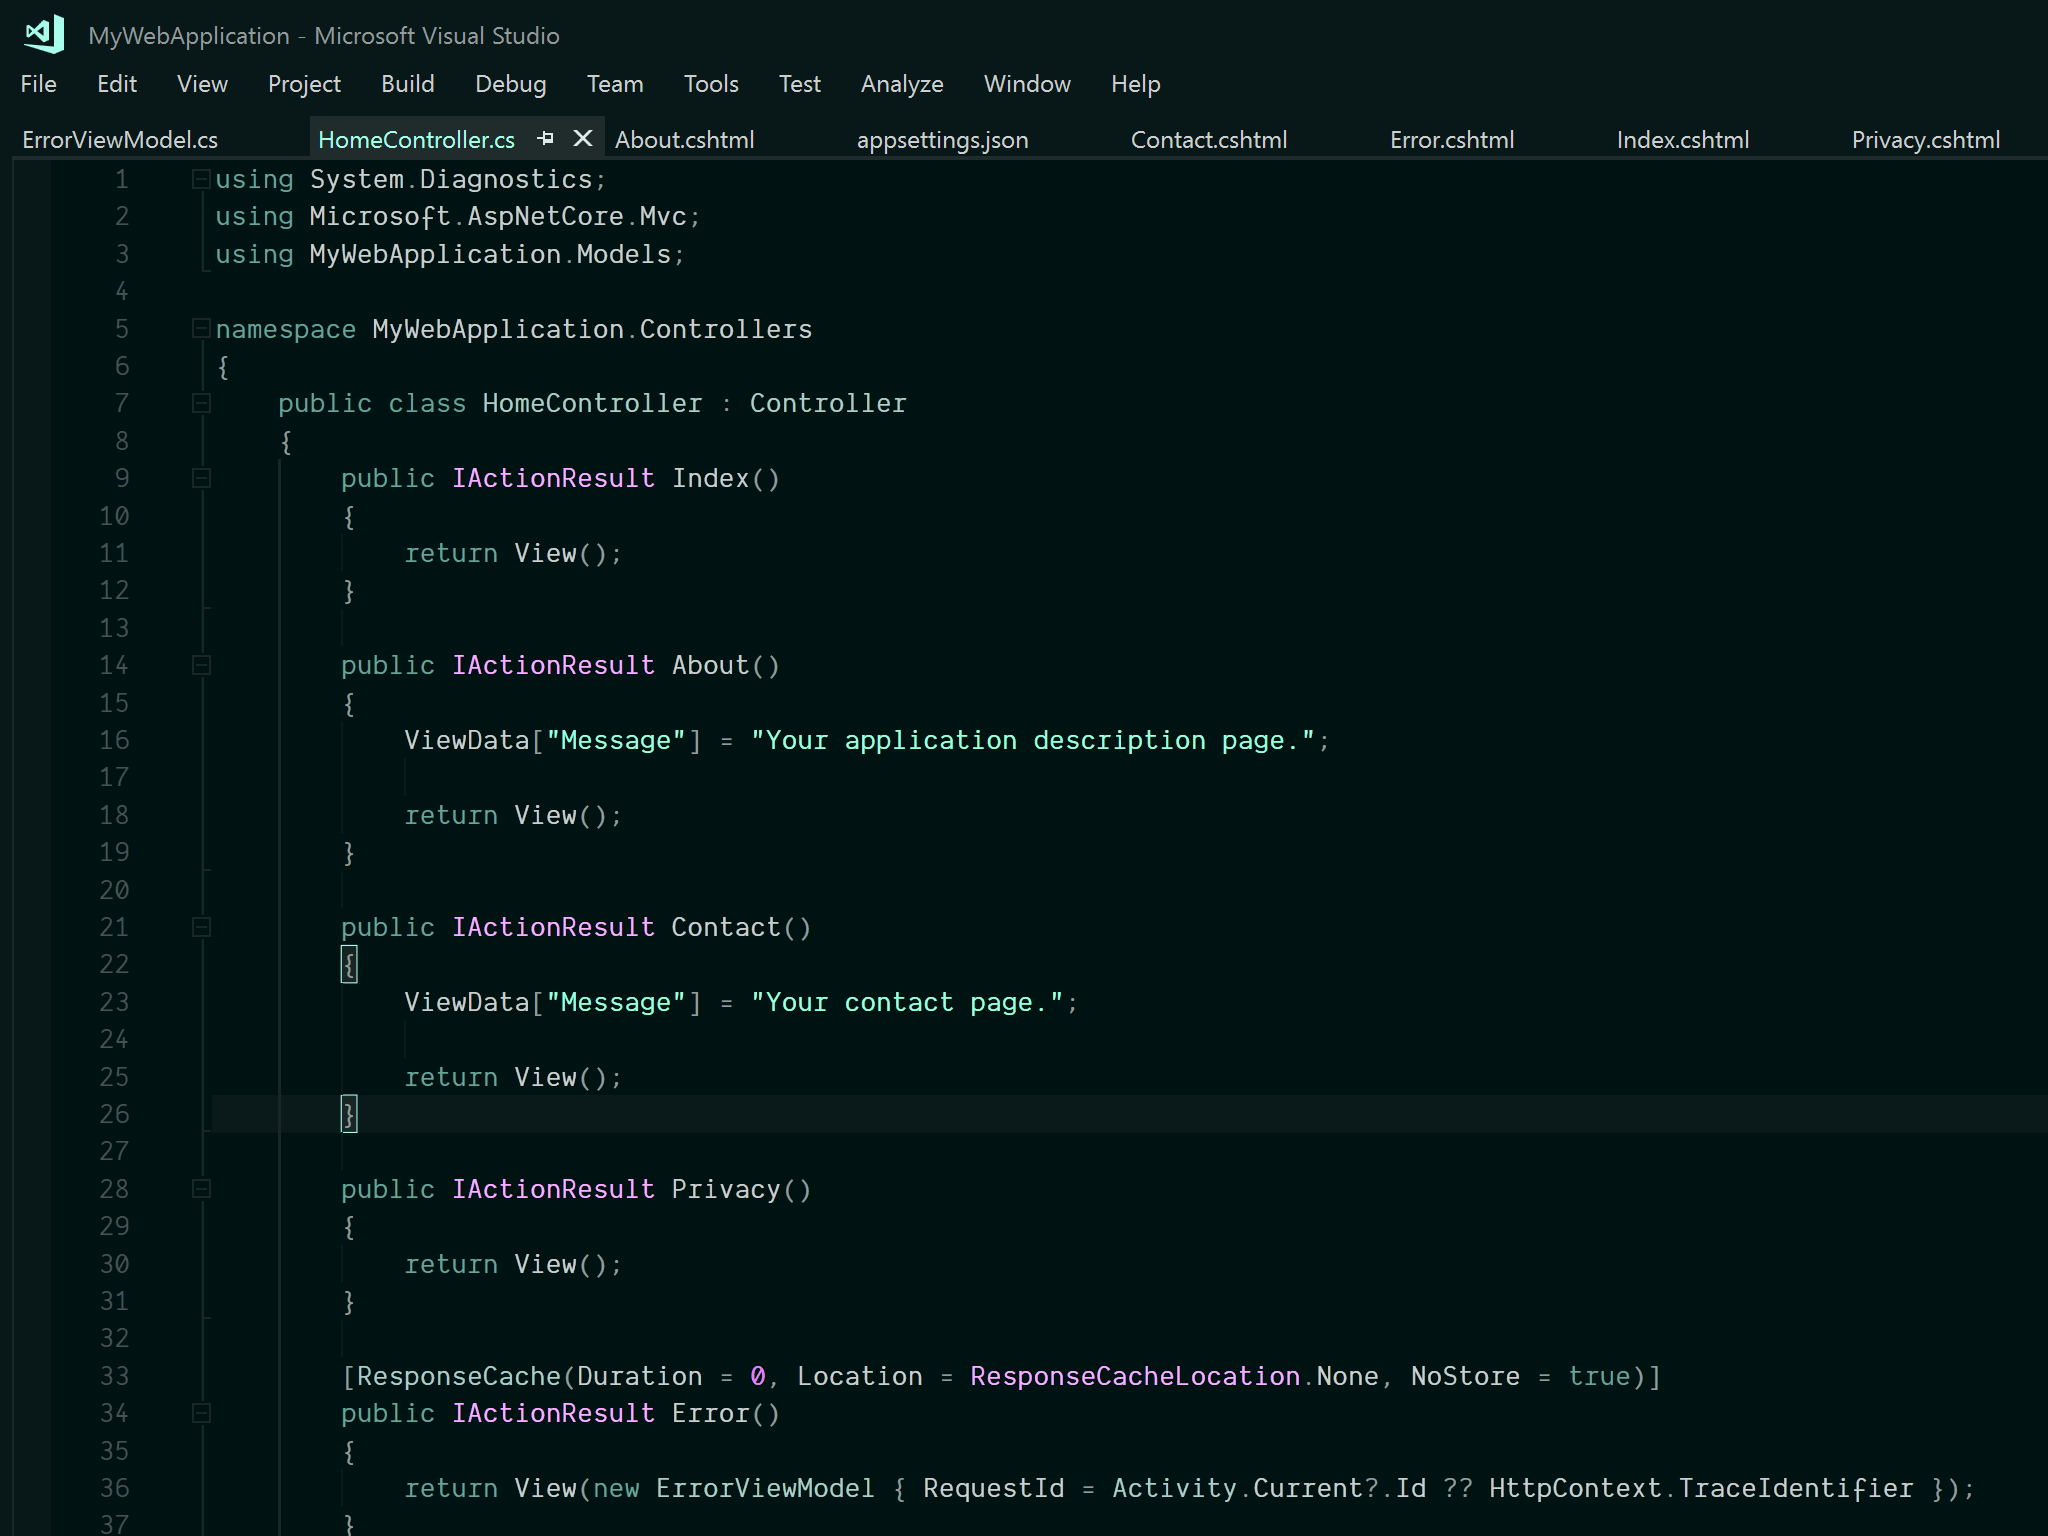
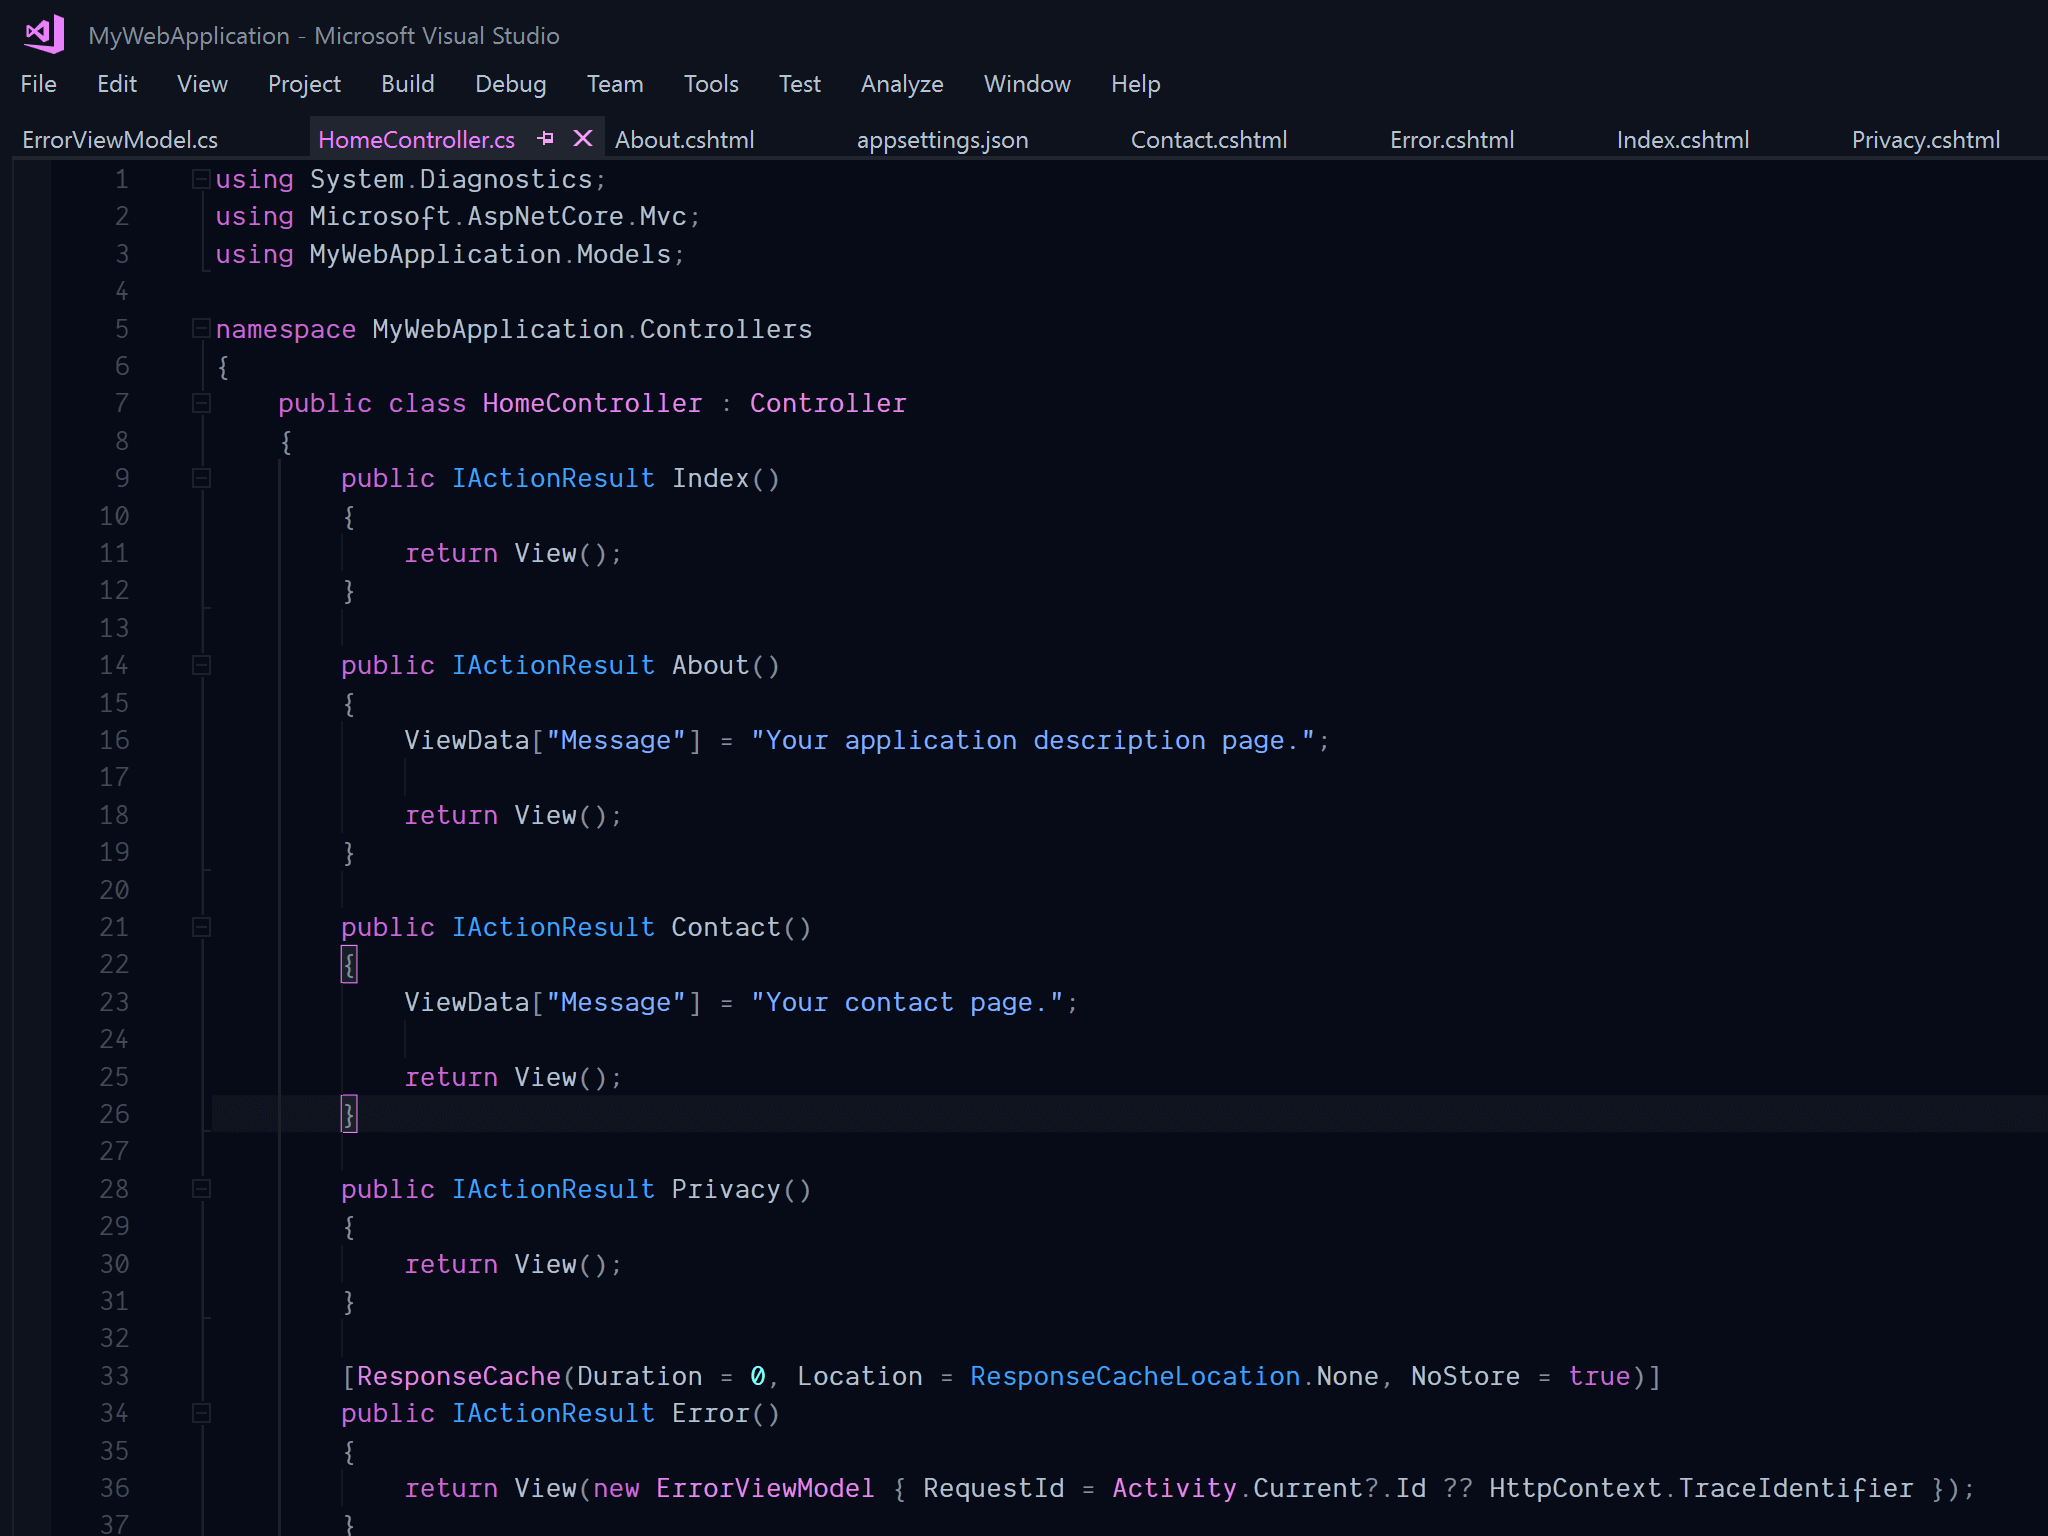
Replace Dainty remix

diff --git a/src/templates/index.html b/src/templates/index.html
@@ -944,12 +944,11 @@
         <div class="screenshot-configuration" id="screenshotDaintyRemixConfiguration">
 <pre><code><span class="v">"colors"</span><span class="p">: {</span>
     <span class="v">"overrides"</span><span class="p">: {</span>
-      <span class="v">"blueGrays"</span><span class="p">: [</span><span class="string">"#001313"</span><span class="p">, </span><span class="string">"#fff"</span><span class="p">],</span>
-      <span class="v">"blues"</span><span class="p">: [</span><span class="string">"#00251a"</span><span class="p">, </span><span class="string">"#00796b"</span><span class="p">, </span><span class="string">"#fff"</span><span class="p">],</span>
-      <span class="v">"blueLighter"</span><span class="p">: </span><span class="string">"#a7ffeb"</span><span class="p">,</span>
-      <span class="v">"greenLighter"</span><span class="p">: </span><span class="string">"#ea80fc"</span><span class="p">,</span>
-      <span class="v">"deepOrangeLighter"</span><span class="p">: </span><span class="string">"#9fffe0"</span><span class="p">,</span>
-      <span class="v">"purpleLight"</span><span class="p">: </span><span class="string">"#f4b2ff"</span>
+      <span class="v">"blues"</span><span class="p">: [</span><span class="string">"#12005e"</span><span class="p">, </span><span class="string">"#ab47bc"</span><span class="p">, </span><span class="string">"#ffb2ff"</span><span class="p">],</span>
+      <span class="v">"blueLighter"</span><span class="p">: </span><span class="string">"#ea80fc"</span><span class="p">,</span>
+      <span class="v">"greenLighter"</span><span class="p">: </span><span class="string">"#84ffff"</span><span class="p">,</span>
+      <span class="v">"deepOrangeLighter"</span><span class="p">: </span><span class="string">"#82b1ff"</span><span class="p">,</span>
+      <span class="v">"purpleLight"</span><span class="p">: </span><span class="string">"#42a5f5"</span>
   <span class="p">}
 }</span></code></pre>
         </div>
